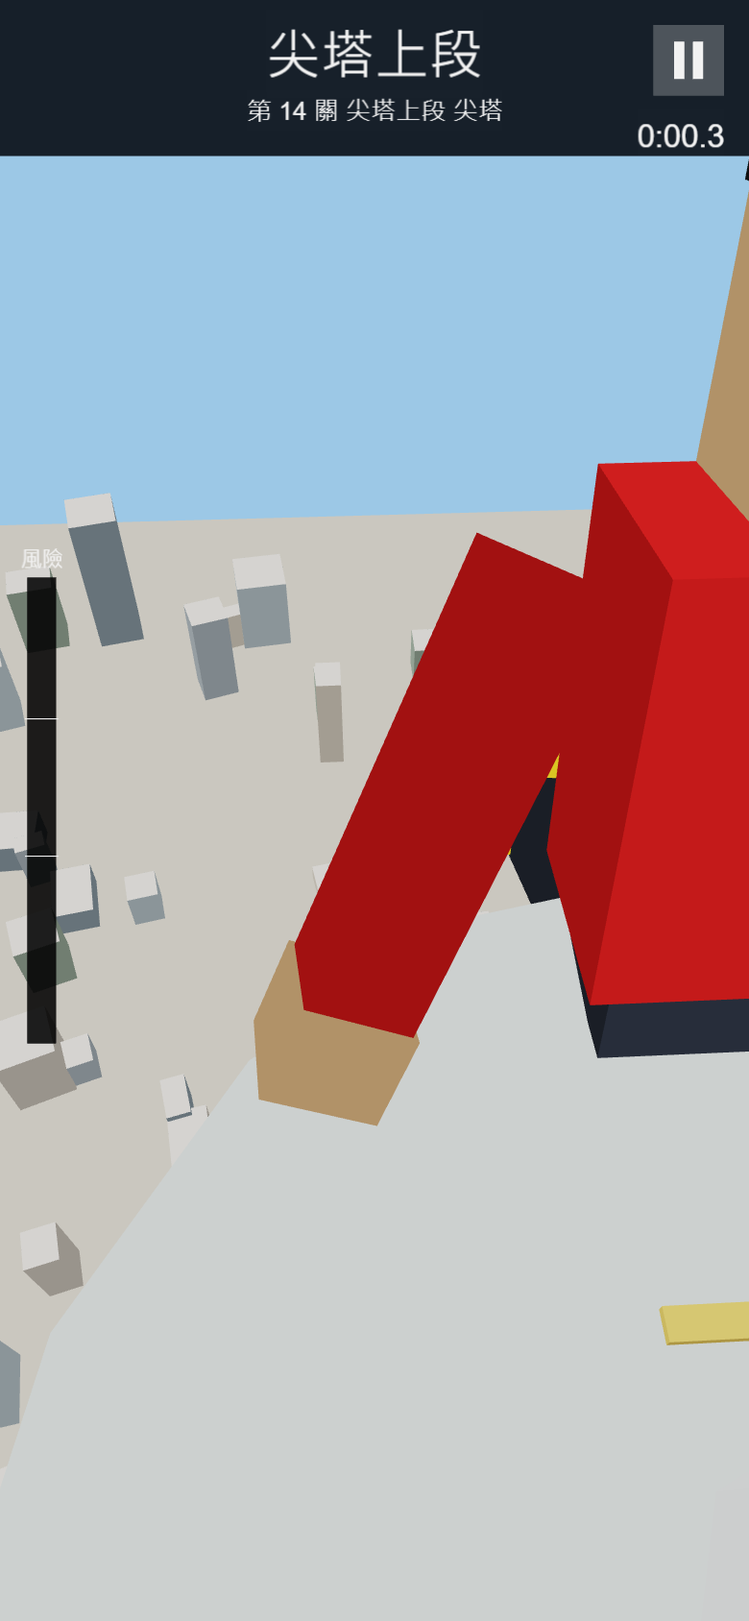
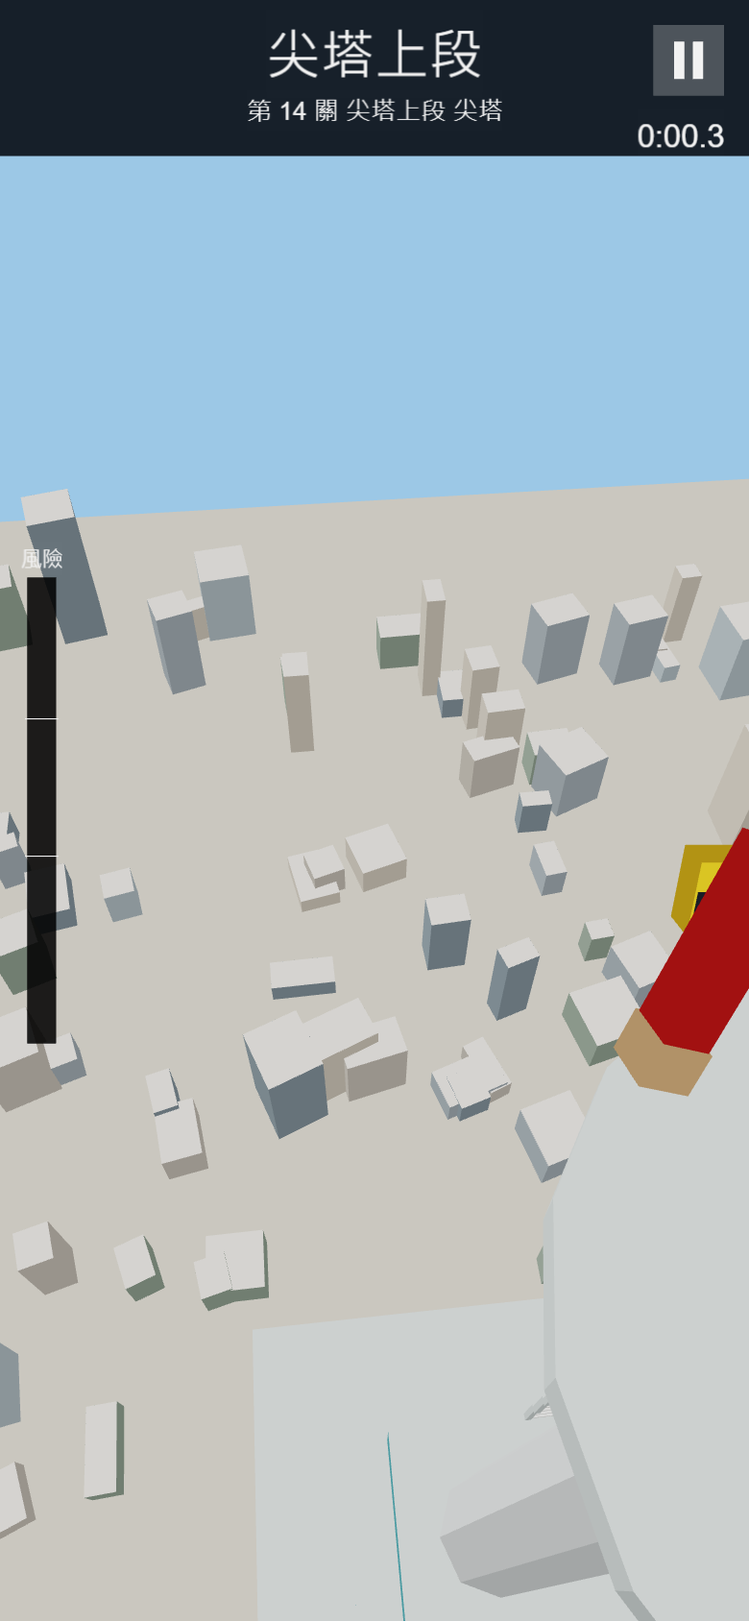
build: rebuild site after ending camera fix

diff --git a/site/assets/main/index.d7ae1.js b/site/assets/main/index.d7ae1.js
@@ -34,7 +34,7 @@ System.register("chunks:///_virtual/SettingsPanel.ts",["./rollupPluginModLoBabel
 
 System.register("chunks:///_virtual/Toast.ts",["cc","./UiKit.ts"],(function(t){var i,o,e,a,n,s,c,h,d,p,r;return{setters:[function(t){i=t.cclegacy,o=t.UITransform,e=t.Tween,a=t.tween,n=t.Graphics,s=t.Color,c=t.UIOpacity},function(t){h=t.roundRect,d=t.hex,p=t.makeNode,r=t.makeLabel}],execute:function(){i._RF.push({},"c007dJKzeZA6KMdTTa1W2Pz","Toast",void 0);t("Toast",function(){function t(t,i){void 0===i&&(i=-470),this.node=void 0,this.bg=void 0,this.label=void 0,this.opacity=void 0,this.node=p("Toast",t,0,0,0,i),this.bg=this.node.addComponent(n),this.label=r(this.node,"",30,s.WHITE,{bold:!0}),this.opacity=this.node.addComponent(c),this.opacity.opacity=0}var i=t.prototype;return i.show=function(t,i){void 0===i&&(i=1.6),this.node.setSiblingIndex(this.node.parent.children.length-1),this.label.string=t,this.label.updateRenderData(!0);var n=Math.max(220,this.label.node.getComponent(o).width+64);this.bg.clear(),h(this.bg,n,72,36,d("#0b1024",230),d("#ffc94a",230),2),e.stopAllByTarget(this.opacity),this.opacity.opacity=255,a(this.opacity).delay(i).to(.3,{opacity:0}).start()},i.hide=function(){e.stopAllByTarget(this.opacity),this.opacity.opacity=0},t}());i._RF.pop()}}}));
 
-System.register("chunks:///_virtual/Tower3D.ts",["./rollupPluginModLoBabelHelpers.js","cc","./ClimbCore.ts","./TowerShape.ts"],(function(t){var s,i,a,r,e,o,n,h,l,d,c,u,f,v,m,w,b,p,y,M,g,Y,P,x,E,F,R,C,I,T,O;return{setters:[function(t){s=t.createForOfIteratorHelperLoose,i=t.createClass,a=t.asyncToGenerator,r=t.regeneratorRuntime},function(t){e=t.cclegacy,o=t.Color,n=t.Vec3,h=t.Node,l=t.Layers,d=t.MeshRenderer,c=t.director,u=t.Camera,f=t.resources,v=t.Material,m=t.utils},function(t){w=t.zoneOf,b=t.isObstacle},function(t){p=t.halfAt,y=t.surfacePoint,M=t.CROWN,g=t.summitY,Y=t.SPIRE_HALF,P=t.SPIRE_TIP,x=t.levelBaseY,E=t.ROW_H,F=t.profileHalf,R=t.ringDelta,C=t.angleDelta,I=t.towerSections,T=t.roofY,O=t.rowY}],execute:function(){e._RF.push({},"99b4ejPWJhEJavssHONEiN2","Tower3D",void 0);var L=z("#9cc8e6"),k=1.5,S=t("ENDING_SEC",10),D=.04,A={glass:z("#3f8f98"),glassDark:z("#2b6f78"),mullion:z("#1f4f57"),ledge:z("#cfd8d6"),disc:z("#b9c6c4"),discInner:z("#7d8f8d"),ruyi:z("#f2f2ee"),crown:z("#5aa0a8"),spire:z("#d8dcdc"),plaza:z("#b8b2a6"),mat:z("#24474a"),safe:z("#6fd0e0"),danger:z("#e0605a"),obstacle:z("#5a5a5a"),obstacleTop:z("#8a8a8a"),slab:z("#173a40"),goal:z("#e8c66a"),body:z("#d62c2c"),skin:z("#f0c090"),hair:z("#2a2a2a"),pants:z("#3a3f4a"),shoe:z("#f2c230")};function z(t){return(new o).fromHEX(t)}var H=new n(.45,.75,.5).normalize();function q(t,s,i,a){var r=Math.hypot(s,i,a)||1,e=(s*H.x+i*H.y+a*H.z)/r,o=.62+.38*Math.max(0,e);return[t.r/255*o,t.g/255*o,t.b/255*o,1]}var N=function(){function t(){this.positions=[],this.colors=[],this.indices=[],this.min=[1/0,1/0,1/0],this.max=[-1/0,-1/0,-1/0]}var s=t.prototype;return s.vert=function(t,s){this.positions.push(t[0],t[1],t[2]),this.colors.push(s[0],s[1],s[2],s[3]);for(var i=0;i<3;i++)t[i]<this.min[i]&&(this.min[i]=t[i]),t[i]>this.max[i]&&(this.max[i]=t[i]);return this.vertexCount-1},s.quad=function(t,s,i,a,r,e){void 0===e&&(e=!1);var o=s[0]-t[0],n=s[1]-t[1],h=s[2]-t[2],l=a[0]-t[0],d=a[1]-t[1],c=a[2]-t[2],u=e?[r.r/255,r.g/255,r.b/255,1]:q(r,n*c-h*d,h*l-o*c,o*d-n*l),f=this.vert(t,u);this.vert(s,u),this.vert(i,u),this.vert(a,u),this.indices.push(f,f+1,f+2,f,f+2,f+3)},s.box=function(t,s,i,a,r,e,o,n,h){void 0===n&&(n=0);var l=a/2,d=r/2,c=e/2,u=Math.cos(n),f=Math.sin(n),v=function(a,r,e){return[t+a*u+e*f,s+r,i-a*f+e*u]},m=[v(-l,-d,-c),v(l,-d,-c),v(l,d,-c),v(-l,d,-c),v(-l,-d,c),v(l,-d,c),v(l,d,c),v(-l,d,c)];this.quad(m[4],m[5],m[6],m[7],o),this.quad(m[1],m[0],m[3],m[2],o),this.quad(m[5],m[1],m[2],m[6],o),this.quad(m[0],m[4],m[7],m[3],o),this.quad(m[7],m[6],m[2],m[3],null!=h?h:o),this.quad(m[0],m[1],m[5],m[4],o)},s.prism=function(t,s,i,a,r,e,o,n){void 0===o&&(o=0),void 0===n&&(n=0);for(var h=0;h<t;h++){var l=h/t*Math.PI*2,d=(h+1)/t*Math.PI*2;this.quad([o+Math.sin(l)*a,s,n+Math.cos(l)*a],[o+Math.sin(d)*a,s,n+Math.cos(d)*a],[o+Math.sin(d)*r,i,n+Math.cos(d)*r],[o+Math.sin(l)*r,i,n+Math.cos(l)*r],e)}for(var c=q(e,0,1,0),u=this.vert([o,i,n],c),f=0;f<=t;f++){var v=f/t*Math.PI*2;this.vert([o+Math.sin(v)*r,i,n+Math.cos(v)*r],c)}for(var m=0;m<t;m++)this.indices.push(u,u+1+m,u+2+m)},s.build=function(){var t,s,i={positions:this.positions,colors:this.colors,indices:this.indices,minPos:new n(this.min[0],this.min[1],this.min[2]),maxPos:new n(this.max[0],this.max[1],this.max[2])},a=m,r=null!=(t=null==(s=a.MeshUtils)?void 0:s.createMesh)?t:a.createMesh;if(!r)throw new Error("createMesh is not available (is the 3D module enabled?)");return r(i)},i(t,[{key:"vertexCount",get:function(){return this.positions.length/3}}]),t}();function _(t,s,i,a,r,e,o,n,h,l,d){void 0===d&&(d=!1);var c=p(s,o+1e-4),u=p(s,n-1e-4),f=y(r,c,i,a,h),v=y(e,c,i,a,h),m=y(e,u,i,a,h),w=y(r,u,i,a,h);t.quad([f.x,o,f.z],[v.x,o,v.z],[m.x,n,m.z],[w.x,n,w.z],l,d)}t("Tower3D",function(){function t(t,s){this.root=void 0,this.camera=void 0,this.userYaw=0,this.rowsPerFloor=void 0,this.ladderRows=void 0,this.sections=void 0,this.material=null,this.gridNode=null,this.gridMesh=null,this.player=void 0,this.body=void 0,this.limbs=[],this.followYaw=0,this.camYaw=0,this.playerYaw=0,this.camY=0,this.camHalf=8,this.idleOrbitSec=0,this.baseY=0,this.standY=0,this.standOut=1,this.feetY=0,this.lastWalk=0,this.tmp=new n,this.tmp2=new n,this.rowsPerFloor=t,this.ladderRows=s,this.sections=I(t);var i=c.getScene();this.root=new h("Tower3D"),this.root.layer=l.Enum.DEFAULT,i.addChild(this.root);var a=new h("Camera3D");a.layer=l.Enum.DEFAULT,i.addChild(a);var r=a.addComponent(u);r.projection=u.ProjectionType.PERSPECTIVE,r.fovAxis=u.FOVAxis.HORIZONTAL,r.fov=42,r.near=.3,r.far=1500,r.priority=0,r.clearFlags=u.ClearFlag.SOLID_COLOR,r.clearColor=L,r.visibility=l.Enum.DEFAULT,this.camera=r}var e=t.prototype;return e.init=function(){var t=a(r().mark((function t(){return r().wrap((function(t){for(;;)switch(t.prev=t.next){case 0:return t.next=2,new Promise((function(t,s){f.load("materials/vertex-color",v,(function(i,a){if(!i&&a)t(a);else try{var r=new v;r.initialize({effectName:"builtin-unlit",defines:{USE_VERTEX_COLOR:!0}}),t(r)}catch(t){s(null!=i?i:t)}}))}));case 2:this.material=t.sent,this.addMesh("Scenery",this.buildScenery()),this.buildPlayer();case 5:case"end":return t.stop()}}),t,this)})));return function(){return t.apply(this,arguments)}}(),e.destroy=function(){var t;null==(t=this.gridMesh)||t.destroy(),this.root.destroy(),this.camera.node.destroy()},e.addMesh=function(t,s,i){void 0===i&&(i=this.root);var a=new h(t);a.layer=l.Enum.DEFAULT,i.addChild(a);var r=s.build(),e=a.addComponent(d);return e.mesh=r,e.setSharedMaterial(this.material,0),e.shadowCastingMode=d.ShadowCastingMode.OFF,{node:a,mesh:r}},e.buildScenery=function(){var t=new N,s=this.sections,i=this.rowsPerFloor;t.quad([-400,0,400],[400,0,400],[400,0,-400],[-400,0,-400],A.plaza,!0);var a=s[0].half0+3;t.quad([-a,.02,a],[a,.02,a],[a,.02,-a],[-a,.02,-a],A.mat,!0);for(var r=0;r<s.length;r++){for(var e=s[r],o=0;o<4;o++)_(t,s,1,4,o,o+1,e.y0,e.y1,0,r%2?A.glass:A.glassDark);for(var n=e.floorFrom+1;n<=e.floorTo;n++)for(var h=O((n-1)*i),l=0;l<4;l++)_(t,s,1,4,l,l+1,h-.06,h+.06,.015,A.mullion);for(var d=0;d<4;d++)for(var c=1;c<6;c++){var u=d+c/6;_(t,s,1,4,u-.004,u+.004,e.y0,e.y1,.015,A.mullion)}var f=s[r+1],v=f?f.half0:0;this.ring(t,e.y1,e.half1+.15,v,A.ledge);for(var m=0;m<4;m++)_(t,s,1,4,m,m+1,e.y1-.35,e.y1,.15,A.ledge);if("segment"===e.kind)for(var w=e.y0+.35*(e.y1-e.y0),b=p(s,w),x=0;x<4;x++){var E=y(x,b,1,4,.25);t.box(E.x,w,E.z,.9,.35,.9,A.ruyi,Math.PI/4),t.box(E.x,w-.55,E.z,.3,.8,.3,A.ruyi,Math.PI/4)}}for(var F=s[0].y1-2.4,R=p(s,F),C=0;C<4;C++){var I=C*Math.PI/2;this.disc(t,R+.08,F,I,1.9,A.disc),this.disc(t,R+.14,F,I,1.2,A.discInner)}var L=T(i),k=[A.crown,A.glass,A.crown];M.forEach((function(s,i){var a=s[0],r=s[1];t.box(0,L+a/2,0,2*r,a,2*r,k[i%k.length],0,A.ledge),L+=a}));var S=g(i,this.ladderRows);t.prism(8,L,S,Y[0],Y[1],A.spire),t.prism(16,S-.3,S,1.6,1.6,A.ledge),t.prism(8,S,S+P,Y[1],.04,A.spire);for(var D=101,H=function(){return(D=16807*D%2147483647)/2147483647},q=[z("#c9c3b8"),z("#a9b3b8"),z("#d8cfc0"),z("#8f9ca3"),z("#b7c4c9"),z("#9aa89a")],U=0;U<260;U++){var W=H()*Math.PI*2,V=60+300*Math.pow(H(),.7),j=V<100,B=6+14*H(),G=6+14*H(),J=j?4+18*H():6+H()*H()*60;t.box(Math.sin(W)*V,J/2,Math.cos(W)*V,B,J,G,q[U%q.length],.4*H(),z("#e4e0d8"))}return t},e.ring=function(t,s,i,a,r){for(var e=function(t){return[[t,s,t],[t,s,-t],[-t,s,-t],[-t,s,t]]},o=e(i),n=e(a),h=0;h<4;h++){var l=(h+1)%4;t.quad(o[h],o[l],n[l],n[h],r)}},e.disc=function(t,s,i,a,r,e){for(var o=Math.sin(a),n=Math.cos(a),h=Math.cos(a),l=-Math.sin(a),d=0;d<16;d++){var c=d/16*Math.PI*2,u=(d+1)/16*Math.PI*2,f=function(t){return[o*s+h*Math.cos(t)*r,i+Math.sin(t)*r,n*s+l*Math.cos(t)*r]},v=[o*s,i,n*s];t.quad(v,f(c),f(u),v,e)}},e.setLevel=function(t){var i,a,r=this;null==(i=this.gridNode)||i.destroy(),null==(a=this.gridMesh)||a.destroy();var e=t.wall,o=t.level,n=this.sections;this.baseY=x(o,this.rowsPerFloor,this.ladderRows);var h=function(t){return r.baseY+t*E};1===o.floorFrom?(this.standY=0,this.standOut=1.2):(this.standY=this.baseY,this.standOut=Math.max(.5,.55*(this.half(this.baseY-.05)-this.half(this.baseY+.05))));var l=new N;if(1===e.cols){this.buildLadder(l,e.rows);var d=this.addMesh("Grid",l),c=d.node,u=d.mesh;return this.gridNode=c,void(this.gridMesh=u)}for(var f=0;f<e.ring;f++)for(var v=0,m=1;m<=e.rows;m++){var M=w(e,f,m-1);if(m===e.rows||b(e,f,m)||b(e,f,m-1)||w(e,f,m)!==M){if(!b(e,f,m-1)){var g="safe"===M?A.safe:A.danger;_(l,n,e.cols,e.faces,f+.08,f+1-.08,h(v),h(m),D,g,!0)}v=m}}for(var Y=this.rowsPerFloor/2;Y<e.rows;Y+=this.rowsPerFloor){var P=h(Y);_(l,n,e.cols,e.faces,0,e.ring,P-.025,P+.025,.05,A.mullion,!0)}for(var F=this.rowsPerFloor;F<=e.rows;F+=this.rowsPerFloor){var R=h(F),C=F===e.rows;_(l,n,e.cols,e.faces,0,e.ring,R-(C?.1:.05),R+(C?.1:.05),.05,C?A.goal:A.slab,!0)}for(var I,T=s(e.obstacles);!(I=T()).done;){var O=I.value,L=O%e.ring,k=h(Math.floor(O/e.ring))+E/2,S=y(L+.5,p(n,k),e.cols,e.faces,.2),z=2*p(n,k)/e.cols;l.box(S.x,k,S.z,.92*z,1.6*E,.45,A.obstacle,S.yaw,A.obstacleTop)}var H=this.addMesh("Grid",l),q=H.node,U=H.mesh;this.gridNode=q,this.gridMesh=U},e.buildLadder=function(t,s){for(var i=this.baseY,a=0;a<s;a+=4)for(var r=i+(a+2)*E,e=this.half(r)+.12,o=0,n=[-.34,.34];o<n.length;o++){var h=n[o];t.box(h,r,e,.07,4*E,.07,A.ledge)}for(var l=0;l<=s;l+=2){var d=i+l*E;t.box(0,d,this.half(d)+.12,.7,.05,.06,l===s?A.goal:A.ruyi)}},e.half=function(t){return F(this.sections,this.rowsPerFloor,this.ladderRows,t)},e.buildPlayer=function(){var t=this;this.player=new h("Climber"),this.player.layer=l.Enum.DEFAULT,this.root.addChild(this.player),this.player.setScale(k,k,k),this.body=new h("Body"),this.body.layer=l.Enum.DEFAULT,this.player.addChild(this.body);var s=new N;s.box(0,.95,0,.56,.62,.32,A.body),s.box(0,.58,0,.5,.14,.3,A.pants),s.box(0,1.42,0,.32,.34,.32,A.skin),s.box(0,1.6,.02,.34,.1,.34,A.hair),s.box(0,1.47,.12,.34,.26,.1,A.hair),this.addMesh("Torso",s,this.body);var i=function(s,i,a,r,e,o,n,d,c){var u=new h(s);u.layer=l.Enum.DEFAULT,t.body.addChild(u),u.setPosition(i,a,0);var f=new N,v=c?1:-1;f.box(0,v*r/2,0,e,r,e,o),f.box(0,v*(r+.06),c?0:-.06,1.1*e,.14,c?1.1*e:1.6*e,n),t.addMesh("Mesh",f,u),t.limbs.push({node:u,sign:d,arm:c})};i("ArmL",-.36,1.2,.6,.15,A.body,A.skin,1,!0),i("ArmR",.36,1.2,.6,.15,A.body,A.skin,-1,!0),i("LegL",-.15,.55,.55,.18,A.pants,A.shoe,-1,!1),i("LegR",.15,.55,.55,.18,A.pants,A.shoe,1,!1)},e.climberPos=function(t,s){var i=t.wall,a=t.stepT<0?1:t.stepT*t.stepT*(3-2*t.stepT),r=R(t.fromCol,t.col,i.ring,i.faces),e=t.fromCol+r*a+.5,o=t.fromRow+(t.row-t.fromRow)*a,n=0;t.level.startPlatform&&null===s&&(0===t.row&&0===t.fromRow?n=1:t.stepping&&0===t.fromRow&&1===t.row?n=1-a:t.stepping&&1===t.fromRow&&0===t.row&&(n=a));var h=this.baseY+o*E;return{s:e,y:null!=s?s:h+(this.standY-h)*n,out:.55+(this.standOut-.55)*n,stand:n}},e.fallStartY=function(t){return this.climberPos(t,null).y},e.floorY=function(){return this.standY},e.rowAtFeet=function(t){return Math.floor((t-this.baseY)/E)},e.update=function(t,i,a){var r=i.wall,e=this.climberPos(i,a.fallY),o=e.s,n=e.y;this.feetY=n;var h=this.half(n+1.2),l=e.out+1.2*a.tumble,d=y(o,h,r.cols,r.faces,l);this.player.setPosition(d.x,n,d.z),this.playerYaw=d.yaw;var c=i.stepT>=0?Math.sin(i.stepT*Math.PI):0,u=e.stand>.5,f=u&&i.stepping&&i.fromRow===i.row;f&&(this.lastWalk=Math.sign(R(i.fromCol,i.col,r.ring,r.faces)));var v=d.yaw;if(u&&(v+=f?-this.lastWalk*Math.PI/2:Math.PI),this.player.setRotationFromEuler(0,180*v/Math.PI,0),u){this.body.setRotationFromEuler(0,0,0);for(var m,w=s(this.limbs);!(m=w()).done;){var b=m.value,p=f?b.sign*c*35:0;b.arm?b.node.setRotationFromEuler(180-p,0,8*-b.sign):b.node.setRotationFromEuler(p,0,0)}}else{var M=a.grip?12:4;this.body.setRotationFromEuler(-M+150*a.tumble,0,40*a.tumble);for(var g,Y=s(this.limbs);!(g=Y()).done;){var P=g.value,x=P.sign*c*30;P.arm?P.node.setRotationFromEuler(x+(a.grip?-6:6),0,-P.sign*(a.grip?10:22)):P.node.setRotationFromEuler(x-10,0,6*P.sign)}}this.followYaw+=C(this.followYaw,d.yaw)*(1-Math.exp(5*-t)),0!==a.orbitInput?(this.userYaw+=a.orbitInput,this.idleOrbitSec=0):(this.idleOrbitSec+=t,this.idleOrbitSec>1.5&&(this.userYaw=C(0,this.userYaw)*Math.exp(3*-t))),this.camYaw=this.followYaw+this.userYaw;var E=n+5+a.lift;this.camY+=(E-this.camY)*(1-Math.exp(6*-t)),this.camHalf+=(h-this.camHalf)*(1-Math.exp(3*-t));var F=2.6*this.camHalf+13,I=this.camY+1.2+a.shake;this.camera.node.setPosition(Math.sin(this.camYaw)*F,I,Math.cos(this.camYaw)*F),this.camera.node.lookAt(this.tmp.set(0,this.camY,0))},e.snap=function(t){var s=this.climberPos(t,null),i=s.s,a=s.y,r=y(i,this.half(a+1.2),t.wall.cols,t.wall.faces);this.followYaw=r.yaw,this.userYaw=0,this.camY=a+5,this.camHalf=this.half(a+1.2)},e.updateEnding=function(t){var i=g(this.rowsPerFloor,this.ladderRows),a=1.15;this.player.setPosition(0,i-.55*k+.05,a),this.player.setRotationFromEuler(0,180,0),this.feetY=i,this.playerYaw=0;var r=2*Math.sin(2*t);this.body.setRotationFromEuler(-14+r,0,0);for(var e,o=s(this.limbs);!(e=o()).done;){var n=e.value;n.arm?n.node.setRotationFromEuler(165,0,25*-n.sign):n.node.setRotationFromEuler(70+8*Math.sin(1.5*t+n.sign),0,6*n.sign)}var h,l,d=this.tmp2.set(0,i,a),c=.9,u=i+2,f=.2,v=-.3,m=i-30,w=26.15,b=(h=(t-3.5)/(S-3.5),(l=Math.min(1,Math.max(0,h)))*l*(3-2*l)),p=Math.atan2(c,f),y=Math.hypot(c,f),M=p+b*Math.PI*1.2,Y=y+(32-y)*b;this.camera.node.setPosition(Math.sin(M)*Y,u+9*b,Math.cos(M)*Y),this.camera.node.lookAt(this.tmp.set(v+(d.x-v)*b,m+(d.y+1.2-m)*b,w+(d.z-w)*b)),this.camYaw=M},e.headWorld=function(t){return this.player.getWorldPosition(t),t.y+=3,t},t.keyOrbit=function(t,s){return s*(100*Math.PI/180)*t},t.dragOrbit=function(t){return.008*-t},i(t,[{key:"totalHeight",get:function(){return g(this.rowsPerFloor,this.ladderRows)+P}},{key:"climberY",get:function(){return this.feetY}},{key:"levelBottomY",get:function(){return this.baseY}},{key:"climberInView",get:function(){return Math.abs(C(this.camYaw,this.playerYaw))<1.45}}]),t}());e._RF.pop()}}}));
+System.register("chunks:///_virtual/Tower3D.ts",["./rollupPluginModLoBabelHelpers.js","cc","./ClimbCore.ts","./TowerShape.ts"],(function(t){var s,i,a,r,e,o,n,h,l,d,c,u,f,v,m,w,b,p,y,M,g,Y,P,x,E,F,R,C,I,T,O;return{setters:[function(t){s=t.createForOfIteratorHelperLoose,i=t.createClass,a=t.asyncToGenerator,r=t.regeneratorRuntime},function(t){e=t.cclegacy,o=t.Color,n=t.Vec3,h=t.Node,l=t.Layers,d=t.MeshRenderer,c=t.director,u=t.Camera,f=t.resources,v=t.Material,m=t.utils},function(t){w=t.zoneOf,b=t.isObstacle},function(t){p=t.halfAt,y=t.surfacePoint,M=t.CROWN,g=t.summitY,Y=t.SPIRE_HALF,P=t.SPIRE_TIP,x=t.levelBaseY,E=t.ROW_H,F=t.profileHalf,R=t.ringDelta,C=t.angleDelta,I=t.towerSections,T=t.roofY,O=t.rowY}],execute:function(){e._RF.push({},"99b4ejPWJhEJavssHONEiN2","Tower3D",void 0);var L=z("#9cc8e6"),k=1.5,S=t("ENDING_SEC",10),D=.04,A={glass:z("#3f8f98"),glassDark:z("#2b6f78"),mullion:z("#1f4f57"),ledge:z("#cfd8d6"),disc:z("#b9c6c4"),discInner:z("#7d8f8d"),ruyi:z("#f2f2ee"),crown:z("#5aa0a8"),spire:z("#d8dcdc"),plaza:z("#b8b2a6"),mat:z("#24474a"),safe:z("#6fd0e0"),danger:z("#e0605a"),obstacle:z("#5a5a5a"),obstacleTop:z("#8a8a8a"),slab:z("#173a40"),goal:z("#e8c66a"),body:z("#d62c2c"),skin:z("#f0c090"),hair:z("#2a2a2a"),pants:z("#3a3f4a"),shoe:z("#f2c230")};function z(t){return(new o).fromHEX(t)}var H=new n(.45,.75,.5).normalize();function q(t,s,i,a){var r=Math.hypot(s,i,a)||1,e=(s*H.x+i*H.y+a*H.z)/r,o=.62+.38*Math.max(0,e);return[t.r/255*o,t.g/255*o,t.b/255*o,1]}var N=function(){function t(){this.positions=[],this.colors=[],this.indices=[],this.min=[1/0,1/0,1/0],this.max=[-1/0,-1/0,-1/0]}var s=t.prototype;return s.vert=function(t,s){this.positions.push(t[0],t[1],t[2]),this.colors.push(s[0],s[1],s[2],s[3]);for(var i=0;i<3;i++)t[i]<this.min[i]&&(this.min[i]=t[i]),t[i]>this.max[i]&&(this.max[i]=t[i]);return this.vertexCount-1},s.quad=function(t,s,i,a,r,e){void 0===e&&(e=!1);var o=s[0]-t[0],n=s[1]-t[1],h=s[2]-t[2],l=a[0]-t[0],d=a[1]-t[1],c=a[2]-t[2],u=e?[r.r/255,r.g/255,r.b/255,1]:q(r,n*c-h*d,h*l-o*c,o*d-n*l),f=this.vert(t,u);this.vert(s,u),this.vert(i,u),this.vert(a,u),this.indices.push(f,f+1,f+2,f,f+2,f+3)},s.box=function(t,s,i,a,r,e,o,n,h){void 0===n&&(n=0);var l=a/2,d=r/2,c=e/2,u=Math.cos(n),f=Math.sin(n),v=function(a,r,e){return[t+a*u+e*f,s+r,i-a*f+e*u]},m=[v(-l,-d,-c),v(l,-d,-c),v(l,d,-c),v(-l,d,-c),v(-l,-d,c),v(l,-d,c),v(l,d,c),v(-l,d,c)];this.quad(m[4],m[5],m[6],m[7],o),this.quad(m[1],m[0],m[3],m[2],o),this.quad(m[5],m[1],m[2],m[6],o),this.quad(m[0],m[4],m[7],m[3],o),this.quad(m[7],m[6],m[2],m[3],null!=h?h:o),this.quad(m[0],m[1],m[5],m[4],o)},s.prism=function(t,s,i,a,r,e,o,n){void 0===o&&(o=0),void 0===n&&(n=0);for(var h=0;h<t;h++){var l=h/t*Math.PI*2,d=(h+1)/t*Math.PI*2;this.quad([o+Math.sin(l)*a,s,n+Math.cos(l)*a],[o+Math.sin(d)*a,s,n+Math.cos(d)*a],[o+Math.sin(d)*r,i,n+Math.cos(d)*r],[o+Math.sin(l)*r,i,n+Math.cos(l)*r],e)}for(var c=q(e,0,1,0),u=this.vert([o,i,n],c),f=0;f<=t;f++){var v=f/t*Math.PI*2;this.vert([o+Math.sin(v)*r,i,n+Math.cos(v)*r],c)}for(var m=0;m<t;m++)this.indices.push(u,u+1+m,u+2+m)},s.build=function(){var t,s,i={positions:this.positions,colors:this.colors,indices:this.indices,minPos:new n(this.min[0],this.min[1],this.min[2]),maxPos:new n(this.max[0],this.max[1],this.max[2])},a=m,r=null!=(t=null==(s=a.MeshUtils)?void 0:s.createMesh)?t:a.createMesh;if(!r)throw new Error("createMesh is not available (is the 3D module enabled?)");return r(i)},i(t,[{key:"vertexCount",get:function(){return this.positions.length/3}}]),t}();function _(t,s,i,a,r,e,o,n,h,l,d){void 0===d&&(d=!1);var c=p(s,o+1e-4),u=p(s,n-1e-4),f=y(r,c,i,a,h),v=y(e,c,i,a,h),m=y(e,u,i,a,h),w=y(r,u,i,a,h);t.quad([f.x,o,f.z],[v.x,o,v.z],[m.x,n,m.z],[w.x,n,w.z],l,d)}t("Tower3D",function(){function t(t,s){this.root=void 0,this.camera=void 0,this.userYaw=0,this.rowsPerFloor=void 0,this.ladderRows=void 0,this.sections=void 0,this.material=null,this.gridNode=null,this.gridMesh=null,this.player=void 0,this.body=void 0,this.limbs=[],this.followYaw=0,this.camYaw=0,this.playerYaw=0,this.camY=0,this.camHalf=8,this.idleOrbitSec=0,this.baseY=0,this.standY=0,this.standOut=1,this.feetY=0,this.lastWalk=0,this.tmp=new n,this.tmp2=new n,this.rowsPerFloor=t,this.ladderRows=s,this.sections=I(t);var i=c.getScene();this.root=new h("Tower3D"),this.root.layer=l.Enum.DEFAULT,i.addChild(this.root);var a=new h("Camera3D");a.layer=l.Enum.DEFAULT,i.addChild(a);var r=a.addComponent(u);r.projection=u.ProjectionType.PERSPECTIVE,r.fovAxis=u.FOVAxis.HORIZONTAL,r.fov=42,r.near=.3,r.far=1500,r.priority=0,r.clearFlags=u.ClearFlag.SOLID_COLOR,r.clearColor=L,r.visibility=l.Enum.DEFAULT,this.camera=r}var e=t.prototype;return e.init=function(){var t=a(r().mark((function t(){return r().wrap((function(t){for(;;)switch(t.prev=t.next){case 0:return t.next=2,new Promise((function(t,s){f.load("materials/vertex-color",v,(function(i,a){if(!i&&a)t(a);else try{var r=new v;r.initialize({effectName:"builtin-unlit",defines:{USE_VERTEX_COLOR:!0}}),t(r)}catch(t){s(null!=i?i:t)}}))}));case 2:this.material=t.sent,this.addMesh("Scenery",this.buildScenery()),this.buildPlayer();case 5:case"end":return t.stop()}}),t,this)})));return function(){return t.apply(this,arguments)}}(),e.destroy=function(){var t;null==(t=this.gridMesh)||t.destroy(),this.root.destroy(),this.camera.node.destroy()},e.addMesh=function(t,s,i){void 0===i&&(i=this.root);var a=new h(t);a.layer=l.Enum.DEFAULT,i.addChild(a);var r=s.build(),e=a.addComponent(d);return e.mesh=r,e.setSharedMaterial(this.material,0),e.shadowCastingMode=d.ShadowCastingMode.OFF,{node:a,mesh:r}},e.buildScenery=function(){var t=new N,s=this.sections,i=this.rowsPerFloor;t.quad([-400,0,400],[400,0,400],[400,0,-400],[-400,0,-400],A.plaza,!0);var a=s[0].half0+3;t.quad([-a,.02,a],[a,.02,a],[a,.02,-a],[-a,.02,-a],A.mat,!0);for(var r=0;r<s.length;r++){for(var e=s[r],o=0;o<4;o++)_(t,s,1,4,o,o+1,e.y0,e.y1,0,r%2?A.glass:A.glassDark);for(var n=e.floorFrom+1;n<=e.floorTo;n++)for(var h=O((n-1)*i),l=0;l<4;l++)_(t,s,1,4,l,l+1,h-.06,h+.06,.015,A.mullion);for(var d=0;d<4;d++)for(var c=1;c<6;c++){var u=d+c/6;_(t,s,1,4,u-.004,u+.004,e.y0,e.y1,.015,A.mullion)}var f=s[r+1],v=f?f.half0:0;this.ring(t,e.y1,e.half1+.15,v,A.ledge);for(var m=0;m<4;m++)_(t,s,1,4,m,m+1,e.y1-.35,e.y1,.15,A.ledge);if("segment"===e.kind)for(var w=e.y0+.35*(e.y1-e.y0),b=p(s,w),x=0;x<4;x++){var E=y(x,b,1,4,.25);t.box(E.x,w,E.z,.9,.35,.9,A.ruyi,Math.PI/4),t.box(E.x,w-.55,E.z,.3,.8,.3,A.ruyi,Math.PI/4)}}for(var F=s[0].y1-2.4,R=p(s,F),C=0;C<4;C++){var I=C*Math.PI/2;this.disc(t,R+.08,F,I,1.9,A.disc),this.disc(t,R+.14,F,I,1.2,A.discInner)}var L=T(i),k=[A.crown,A.glass,A.crown];M.forEach((function(s,i){var a=s[0],r=s[1];t.box(0,L+a/2,0,2*r,a,2*r,k[i%k.length],0,A.ledge),L+=a}));var S=g(i,this.ladderRows);t.prism(8,L,S,Y[0],Y[1],A.spire),t.prism(16,S-.3,S,1.6,1.6,A.ledge),t.prism(8,S,S+P,Y[1],.04,A.spire);for(var D=101,H=function(){return(D=16807*D%2147483647)/2147483647},q=[z("#c9c3b8"),z("#a9b3b8"),z("#d8cfc0"),z("#8f9ca3"),z("#b7c4c9"),z("#9aa89a")],U=0;U<260;U++){var W=H()*Math.PI*2,V=60+300*Math.pow(H(),.7),j=V<100,B=6+14*H(),G=6+14*H(),J=j?4+18*H():6+H()*H()*60;t.box(Math.sin(W)*V,J/2,Math.cos(W)*V,B,J,G,q[U%q.length],.4*H(),z("#e4e0d8"))}return t},e.ring=function(t,s,i,a,r){for(var e=function(t){return[[t,s,t],[t,s,-t],[-t,s,-t],[-t,s,t]]},o=e(i),n=e(a),h=0;h<4;h++){var l=(h+1)%4;t.quad(o[h],o[l],n[l],n[h],r)}},e.disc=function(t,s,i,a,r,e){for(var o=Math.sin(a),n=Math.cos(a),h=Math.cos(a),l=-Math.sin(a),d=0;d<16;d++){var c=d/16*Math.PI*2,u=(d+1)/16*Math.PI*2,f=function(t){return[o*s+h*Math.cos(t)*r,i+Math.sin(t)*r,n*s+l*Math.cos(t)*r]},v=[o*s,i,n*s];t.quad(v,f(c),f(u),v,e)}},e.setLevel=function(t){var i,a,r=this;null==(i=this.gridNode)||i.destroy(),null==(a=this.gridMesh)||a.destroy();var e=t.wall,o=t.level,n=this.sections;this.baseY=x(o,this.rowsPerFloor,this.ladderRows);var h=function(t){return r.baseY+t*E};1===o.floorFrom?(this.standY=0,this.standOut=1.2):(this.standY=this.baseY,this.standOut=Math.max(.5,.55*(this.half(this.baseY-.05)-this.half(this.baseY+.05))));var l=new N;if(1===e.cols){this.buildLadder(l,e.rows);var d=this.addMesh("Grid",l),c=d.node,u=d.mesh;return this.gridNode=c,void(this.gridMesh=u)}for(var f=0;f<e.ring;f++)for(var v=0,m=1;m<=e.rows;m++){var M=w(e,f,m-1);if(m===e.rows||b(e,f,m)||b(e,f,m-1)||w(e,f,m)!==M){if(!b(e,f,m-1)){var g="safe"===M?A.safe:A.danger;_(l,n,e.cols,e.faces,f+.08,f+1-.08,h(v),h(m),D,g,!0)}v=m}}for(var Y=this.rowsPerFloor/2;Y<e.rows;Y+=this.rowsPerFloor){var P=h(Y);_(l,n,e.cols,e.faces,0,e.ring,P-.025,P+.025,.05,A.mullion,!0)}for(var F=this.rowsPerFloor;F<=e.rows;F+=this.rowsPerFloor){var R=h(F),C=F===e.rows;_(l,n,e.cols,e.faces,0,e.ring,R-(C?.1:.05),R+(C?.1:.05),.05,C?A.goal:A.slab,!0)}for(var I,T=s(e.obstacles);!(I=T()).done;){var O=I.value,L=O%e.ring,k=h(Math.floor(O/e.ring))+E/2,S=y(L+.5,p(n,k),e.cols,e.faces,.2),z=2*p(n,k)/e.cols;l.box(S.x,k,S.z,.92*z,1.6*E,.45,A.obstacle,S.yaw,A.obstacleTop)}var H=this.addMesh("Grid",l),q=H.node,U=H.mesh;this.gridNode=q,this.gridMesh=U},e.buildLadder=function(t,s){for(var i=this.baseY,a=0;a<s;a+=4)for(var r=i+(a+2)*E,e=this.half(r)+.12,o=0,n=[-.34,.34];o<n.length;o++){var h=n[o];t.box(h,r,e,.07,4*E,.07,A.ledge)}for(var l=0;l<=s;l+=2){var d=i+l*E;t.box(0,d,this.half(d)+.12,.7,.05,.06,l===s?A.goal:A.ruyi)}},e.half=function(t){return F(this.sections,this.rowsPerFloor,this.ladderRows,t)},e.buildPlayer=function(){var t=this;this.player=new h("Climber"),this.player.layer=l.Enum.DEFAULT,this.root.addChild(this.player),this.player.setScale(k,k,k),this.body=new h("Body"),this.body.layer=l.Enum.DEFAULT,this.player.addChild(this.body);var s=new N;s.box(0,.95,0,.56,.62,.32,A.body),s.box(0,.58,0,.5,.14,.3,A.pants),s.box(0,1.42,0,.32,.34,.32,A.skin),s.box(0,1.6,.02,.34,.1,.34,A.hair),s.box(0,1.47,.12,.34,.26,.1,A.hair),this.addMesh("Torso",s,this.body);var i=function(s,i,a,r,e,o,n,d,c){var u=new h(s);u.layer=l.Enum.DEFAULT,t.body.addChild(u),u.setPosition(i,a,0);var f=new N,v=c?1:-1;f.box(0,v*r/2,0,e,r,e,o),f.box(0,v*(r+.06),c?0:-.06,1.1*e,.14,c?1.1*e:1.6*e,n),t.addMesh("Mesh",f,u),t.limbs.push({node:u,sign:d,arm:c})};i("ArmL",-.36,1.2,.6,.15,A.body,A.skin,1,!0),i("ArmR",.36,1.2,.6,.15,A.body,A.skin,-1,!0),i("LegL",-.15,.55,.55,.18,A.pants,A.shoe,-1,!1),i("LegR",.15,.55,.55,.18,A.pants,A.shoe,1,!1)},e.climberPos=function(t,s){var i=t.wall,a=t.stepT<0?1:t.stepT*t.stepT*(3-2*t.stepT),r=R(t.fromCol,t.col,i.ring,i.faces),e=t.fromCol+r*a+.5,o=t.fromRow+(t.row-t.fromRow)*a,n=0;t.level.startPlatform&&null===s&&(0===t.row&&0===t.fromRow?n=1:t.stepping&&0===t.fromRow&&1===t.row?n=1-a:t.stepping&&1===t.fromRow&&0===t.row&&(n=a));var h=this.baseY+o*E;return{s:e,y:null!=s?s:h+(this.standY-h)*n,out:.55+(this.standOut-.55)*n,stand:n}},e.fallStartY=function(t){return this.climberPos(t,null).y},e.floorY=function(){return this.standY},e.rowAtFeet=function(t){return Math.floor((t-this.baseY)/E)},e.update=function(t,i,a){var r=i.wall,e=this.climberPos(i,a.fallY),o=e.s,n=e.y;this.feetY=n;var h=this.half(n+1.2),l=e.out+1.2*a.tumble,d=y(o,h,r.cols,r.faces,l);this.player.setPosition(d.x,n,d.z),this.playerYaw=d.yaw;var c=i.stepT>=0?Math.sin(i.stepT*Math.PI):0,u=e.stand>.5,f=u&&i.stepping&&i.fromRow===i.row;f&&(this.lastWalk=Math.sign(R(i.fromCol,i.col,r.ring,r.faces)));var v=d.yaw;if(u&&(v+=f?-this.lastWalk*Math.PI/2:Math.PI),this.player.setRotationFromEuler(0,180*v/Math.PI,0),u){this.body.setRotationFromEuler(0,0,0);for(var m,w=s(this.limbs);!(m=w()).done;){var b=m.value,p=f?b.sign*c*35:0;b.arm?b.node.setRotationFromEuler(180-p,0,8*-b.sign):b.node.setRotationFromEuler(p,0,0)}}else{var M=a.grip?12:4;this.body.setRotationFromEuler(-M+150*a.tumble,0,40*a.tumble);for(var g,Y=s(this.limbs);!(g=Y()).done;){var P=g.value,x=P.sign*c*30;P.arm?P.node.setRotationFromEuler(x+(a.grip?-6:6),0,-P.sign*(a.grip?10:22)):P.node.setRotationFromEuler(x-10,0,6*P.sign)}}this.followYaw+=C(this.followYaw,d.yaw)*(1-Math.exp(5*-t)),0!==a.orbitInput?(this.userYaw+=a.orbitInput,this.idleOrbitSec=0):(this.idleOrbitSec+=t,this.idleOrbitSec>1.5&&(this.userYaw=C(0,this.userYaw)*Math.exp(3*-t))),this.camYaw=this.followYaw+this.userYaw;var E=n+5+a.lift;this.camY+=(E-this.camY)*(1-Math.exp(6*-t)),this.camHalf+=(h-this.camHalf)*(1-Math.exp(3*-t));var F=2.6*this.camHalf+13,I=this.camY+1.2+a.shake;this.camera.node.setPosition(Math.sin(this.camYaw)*F,I,Math.cos(this.camYaw)*F),this.camera.node.lookAt(this.tmp.set(0,this.camY,0))},e.snap=function(t){var s=this.climberPos(t,null),i=s.s,a=s.y,r=y(i,this.half(a+1.2),t.wall.cols,t.wall.faces);this.followYaw=r.yaw,this.userYaw=0,this.camY=a+5,this.camHalf=this.half(a+1.2)},e.updateEnding=function(t){var i=g(this.rowsPerFloor,this.ladderRows),a=1.15;this.player.setPosition(0,i-.55*k+.05,a),this.player.setRotationFromEuler(0,180,0),this.feetY=i,this.playerYaw=0;var r=2*Math.sin(2*t);this.body.setRotationFromEuler(-14+r,0,0);for(var e,o=s(this.limbs);!(e=o()).done;){var n=e.value;n.arm?n.node.setRotationFromEuler(165,0,25*-n.sign):n.node.setRotationFromEuler(70+8*Math.sin(1.5*t+n.sign),0,6*n.sign)}var h,l,d=this.tmp2.set(0,i,a),c=2.3,u=i+4,f=-.5,v=-.3,m=i-30,w=26.15,b=(h=(t-3.5)/(S-3.5),(l=Math.min(1,Math.max(0,h)))*l*(3-2*l)),p=Math.atan2(c,f),y=Math.hypot(c,f),M=p+b*Math.PI*1.2,Y=y+(32-y)*b;this.camera.node.setPosition(Math.sin(M)*Y,u+9*b,Math.cos(M)*Y),this.camera.node.lookAt(this.tmp.set(v+(d.x-v)*b,m+(d.y+1.2-m)*b,w+(d.z-w)*b)),this.camYaw=M},e.headWorld=function(t){return this.player.getWorldPosition(t),t.y+=3,t},t.keyOrbit=function(t,s){return s*(100*Math.PI/180)*t},t.dragOrbit=function(t){return.008*-t},i(t,[{key:"totalHeight",get:function(){return g(this.rowsPerFloor,this.ladderRows)+P}},{key:"climberY",get:function(){return this.feetY}},{key:"levelBottomY",get:function(){return this.baseY}},{key:"climberInView",get:function(){return Math.abs(C(this.camYaw,this.playerYaw))<1.45}}]),t}());e._RF.pop()}}}));
 
 System.register("chunks:///_virtual/TowerShape.ts",["./rollupPluginModLoBabelHelpers.js","cc"],(function(r){var n,t;return{setters:[function(r){n=r.createForOfIteratorHelperLoose},function(r){t=r.cclegacy}],execute:function(){r({angleDelta:function(r,n){var t=(n-r)%(2*Math.PI);t>Math.PI&&(t-=2*Math.PI);t<=-Math.PI&&(t+=2*Math.PI);return t},crownTopY:I,faceYaw:v,floorY:l,halfAt:h,levelBaseY:function(r,n,t){if(null!==r.floorFrom)return i((r.floorFrom-1)*n);var o="spire-upper"===r.floors?1:0;return I(n)+o*t*a},profileHalf:function(r,n,t,a){var o;return null!=(o=y(n,t,a))?o:h(r,a)},ringDelta:function(r,n,t,a){var o=n-r;a>1&&(o>t/2&&(o-=t),o<-t/2&&(o+=t));return o},roofY:c,rowY:i,spireHalfAt:y,summitY:P,surfacePoint:function(r,n,t,a,o){void 0===o&&(o=0);var e=t*a,u=1===a?r:(r%e+e)%e,f=1===a?0:Math.min(a-1,Math.floor(u/t)),i=2*(u-f*t)/t-1,l=v(f,a),c=Math.sin(l),h=Math.cos(l),M=Math.cos(l),p=-Math.sin(l),m=n+o,I=l;if(a>1){var P=.2,y=Math.PI/a;I+=y*s((i-.8)/P)-y*s((-i-.8)/P)}return{x:c*m+M*i*n,z:h*m+p*i*n,yaw:I}},towerSections:function(r){var n=[],t=function(t,a,o,e){n.push({kind:t,floorFrom:a,floorTo:o,y0:"base"===t?0:l(a,r),y1:l(o+1,r),half0:e[0],half1:e[1]})};t("base",1,26,e);for(var a=0;a<8;a++){var o=27+8*a;t("segment",o,o+8-1,u)}return t("top",91,101,f),n}}),t._RF.push({},"642a9tKgmZL8q2pn2Q5qVLx","TowerShape",void 0);var a=r("ROW_H",.2),o=r("LIFT",1.3),e=[9.6,7.4],u=[5.2,6.8],f=[4.4,4.9];function i(r){return o+r*a}function l(r,n){return i((r-1)*n)}function c(r){return l(102,r)}function h(r,t){for(var a,o=r[0],e=n(r);!(a=e()).done;){var u=a.value;t>=u.y0&&(o=u)}var f=Math.min(1,Math.max(0,(t-o.y0)/(o.y1-o.y0)));return o.half0+(o.half1-o.half0)*f}function v(r,n){return 1===n?0:2*r*Math.PI/n}function s(r){var n=Math.min(1,Math.max(0,r));return n*n*(3-2*n)}var M=r("CROWN",[[2.4,3.7],[2,2.7],[1.6,1.8]]),p=r("SPIRE_HALF",[1,.45]),m=r("SPIRE_TIP",6);function I(r){return c(r)+M.reduce((function(r,n){return r+n[0]}),0)}function P(r,n,t){return void 0===t&&(t=2),I(r)+t*n*a}function y(r,t,a){var o=c(r);if(a<o)return null;for(var e,u=n(M);!(e=u()).done;){var f=e.value,i=f[0],l=f[1];if(a<o+i)return l;o+=i}var h=P(r,t);return a<=h?p[0]+(p[1]-p[0])*((a-o)/(h-o)):Math.max(.04,p[1]*(1-(a-h)/m))}t._RF.pop()}}}));
 

diff --git a/site/application.d75d8.js b/site/application.d75d8.js
@@ -14,7 +14,7 @@ System.register([], function (_export, _context) {
       _export("Application", Application = /*#__PURE__*/function () {
         function Application() {
           _classCallCheck(this, Application);
-          this.settingsPath = 'src/settings.41ba5.json';
+          this.settingsPath = 'src/settings.1123b.json';
           this.showFPS = false;
         }
         _createClass(Application, [{

diff --git a/site/index.html b/site/index.html
@@ -61,7 +61,7 @@
 <script src="src/import-map.4a4e2.json" type="systemjs-importmap" charset="utf-8"> </script>
 
 <script>
-    System.import('./index.21f44.js').catch(function(err) { console.error(err); })
+    System.import('./index.3347d.js').catch(function(err) { console.error(err); })
 </script>
 
 </body>

diff --git a/site/index.3347d.js b/site/index.3347d.js
@@ -1,4 +1,4 @@
-System.register(["./application.89066.js"], function (_export, _context) {
+System.register(["./application.d75d8.js"], function (_export, _context) {
   "use strict";
 
   var Application, canvas, $p, bcr, application;
